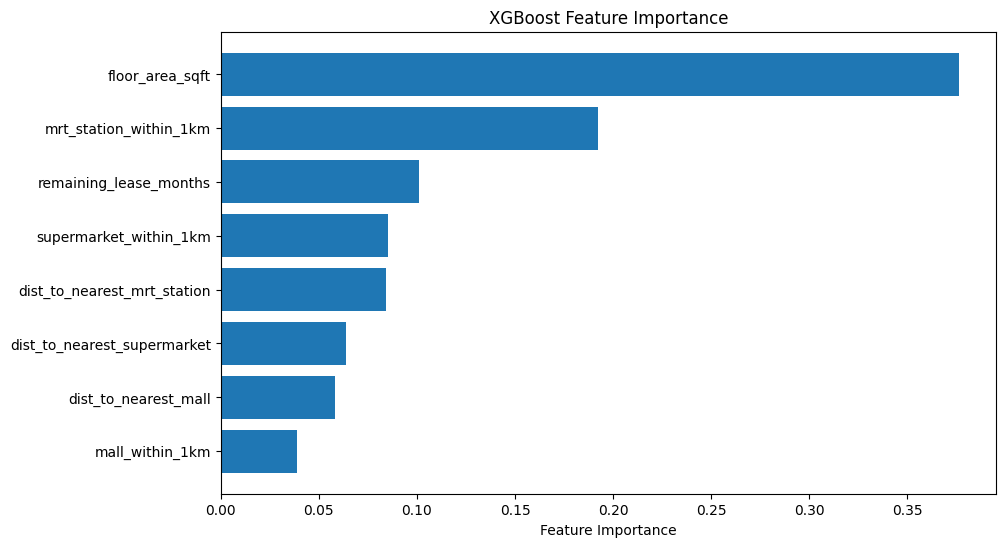
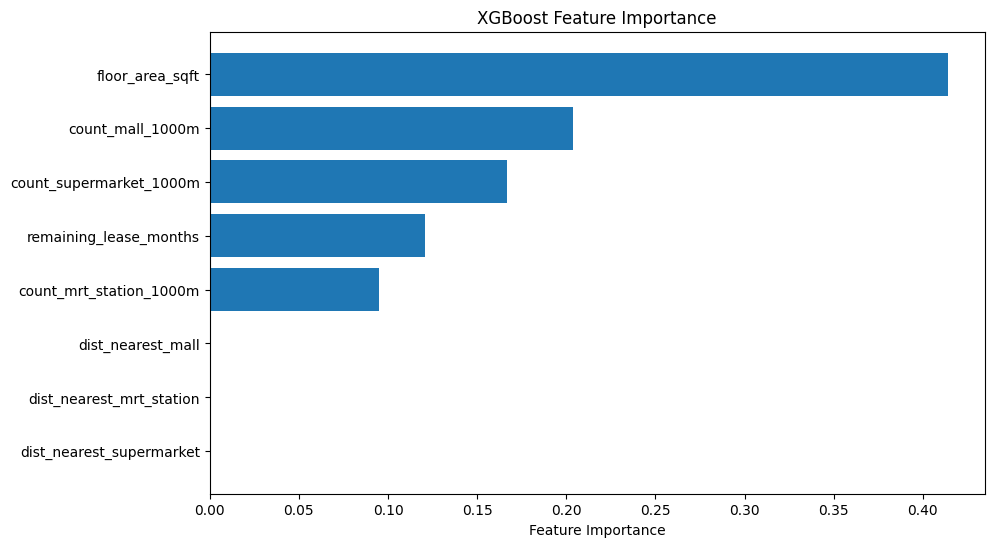
fix(L4): update ML scripts for new amenity schema
Updated analysis scripts to use new amenity column names:
- dist_nearest_* instead of dist_to_nearest_*
- count_*_1000m instead of *_within_1km

Scripts updated:
- price_prediction.py: R²=0.860, RMSE=,628
- market_segmentation.py: 5 segments, 288k properties
- forecast_prices.py: 20 planning area forecasts
- feature_importance.py: Visualization generated

Key findings:
- Amenity count features show strong importance (20-17%)
- Count within 1000m more predictive than nearest distance
- floor_area_sqft remains top feature (41%)

diff --git a/scripts/analytics/analysis/market/market_segmentation.py b/scripts/analytics/analysis/market/market_segmentation.py
@@ -27,7 +27,7 @@ def main():
     feature_cols = [
         "price",
         "floor_area_sqft",
-        "dist_to_nearest_mall",
+        "dist_nearest_mall",
         "remaining_lease_months",
     ]
 
@@ -43,7 +43,7 @@ def main():
     segment_stats = df_cluster.groupby("segment").agg({
         "price": ["mean", "count"],
         "floor_area_sqft": "mean",
-        "dist_to_nearest_mall": "mean",
+        "dist_nearest_mall": "mean",
     }).round(2)
 
     logger.info("\nSegment Profiles:")
@@ -55,7 +55,7 @@ def main():
             f"{stats[('floor_area_sqft', 'mean')]:.0f} sqft"
         )
 
-    output_df = df_cluster[["address", "price", "floor_area_sqft", "dist_to_nearest_mall", "segment"]].copy()
+    output_df = df_cluster[["address", "price", "floor_area_sqft", "dist_nearest_mall", "segment"]].copy()
     save_parquet(output_df, "L4_market_segments", source="K-means clustering")
     logger.info("✅ Saved segments to L4_market_segments.parquet")
 

diff --git a/scripts/analytics/analysis/market/feature_importance.py b/scripts/analytics/analysis/market/feature_importance.py
@@ -30,12 +30,12 @@ def main():
     feature_cols = [
         "floor_area_sqft",
         "remaining_lease_months",
-        "dist_to_nearest_mall",
-        "dist_to_nearest_mrt_station",
-        "dist_to_nearest_supermarket",
-        "mall_within_1km",
-        "mrt_station_within_1km",
-        "supermarket_within_1km",
+        "dist_nearest_mall",
+        "dist_nearest_mrt_station",
+        "dist_nearest_supermarket",
+        "count_mall_1000m",
+        "count_mrt_station_1000m",
+        "count_supermarket_1000m",
     ]
 
     df_model = df.dropna(subset=feature_cols + ["price"]).copy()

diff --git a/scripts/analytics/analysis/market/price_prediction.py b/scripts/analytics/analysis/market/price_prediction.py
@@ -30,12 +30,12 @@ def main():
     feature_cols = [
         "floor_area_sqft",
         "remaining_lease_months",
-        "dist_to_nearest_mall",
-        "dist_to_nearest_mrt_station",
-        "dist_to_nearest_supermarket",
-        "mall_within_1km",
-        "mrt_station_within_1km",
-        "supermarket_within_1km",
+        "dist_nearest_mall",
+        "dist_nearest_mrt_station",
+        "dist_nearest_supermarket",
+        "count_mall_1000m",
+        "count_mrt_station_1000m",
+        "count_supermarket_1000m",
     ]
 
     df_model = df.dropna(subset=feature_cols + ["price"]).copy()
